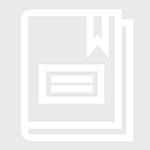
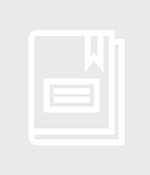
Standardize book sizes on group#show and book#show

diff --git a/app/models/book.rb b/app/models/book.rb
@@ -6,6 +6,6 @@ class Book < ActiveRecord::Base
 	has_many :comments, :dependent => :destroy
 	has_many :favorites
 
-	has_attached_file :cover, :default_url => 'book.jpg', styles: { medium: "300x300>", thumb: "150x150>" }
+	has_attached_file :cover, :default_url => 'book.jpg', styles: { medium: "175x200#", thumb: "150x175#" }
 	validates_attachment_content_type :cover, :content_type => /\Aimage\/.*\Z/
 end
